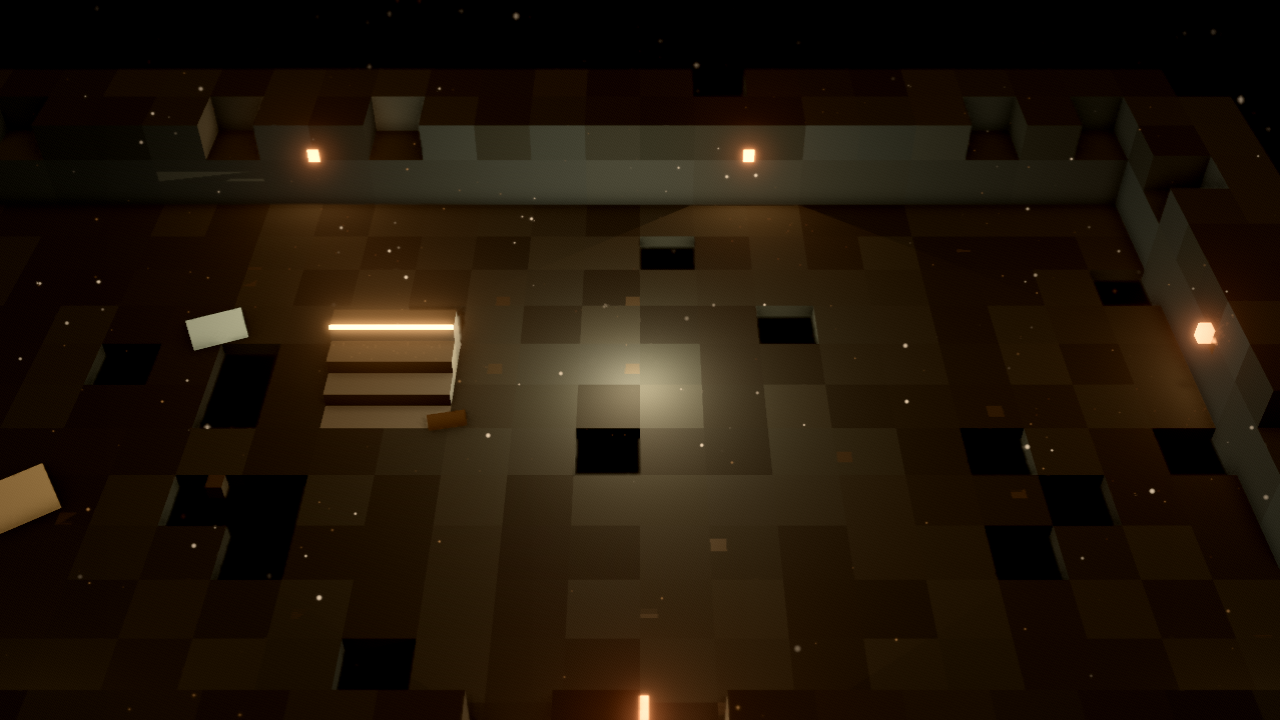
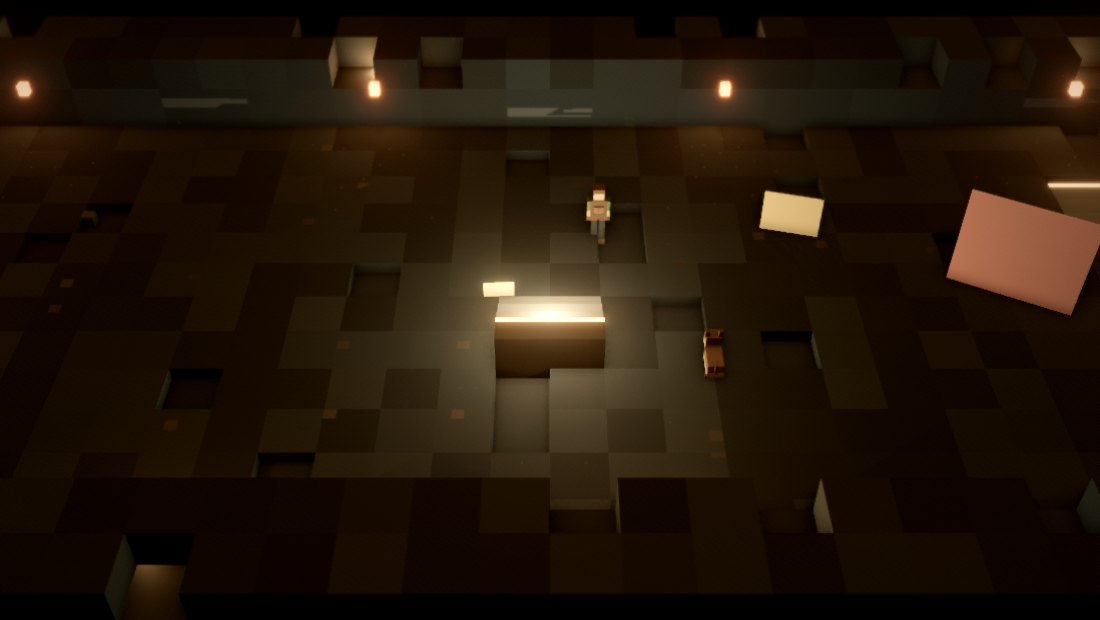
Put the third-person camera south of the hero — north was mirroring the world

diff --git a/tests/gpu-thirdperson.test.ts b/tests/gpu-thirdperson.test.ts
@@ -35,13 +35,13 @@ describe('gpu third-person — afterburn long-lens diorama follow', () => {
     const pose = thirdPersonPose(hero, 0, THIRD_DIST_DEFAULT_CELLS);
 
     // Pitch 42° with yawSteps 0 (behind the target, azimuth 0). Camera sits
-    // north of the target at (0, +sin·d, −cos·d), lifted `THIRD_LOOK_HEIGHT`
+    // *south* of the target at (0, +sin·d, +cos·d), lifted `THIRD_LOOK_HEIGHT`
     // above the floor so it looks at the hero's chest (0.39 cells up).
     const target = { x: hero.x + 0.5, y: THIRD_LOOK_HEIGHT_CELLS, z: hero.y + 0.5 };
     const cosP = Math.cos(THIRD_PITCH_RAD);
     const sinP = Math.sin(THIRD_PITCH_RAD);
     const expectedY = target.y + THIRD_DIST_DEFAULT_CELLS * sinP;
-    const expectedZ = target.z - THIRD_DIST_DEFAULT_CELLS * cosP;
+    const expectedZ = target.z + THIRD_DIST_DEFAULT_CELLS * cosP;
     expect(pose.position.x).toBeCloseTo(target.x);
     expect(pose.position.y).toBeCloseTo(expectedY);
     expect(pose.position.z).toBeCloseTo(expectedZ);
@@ -76,14 +76,15 @@ describe('gpu third-person — afterburn long-lens diorama follow', () => {
     // `wrapYawSteps`; `thirdPersonPose` then multiplies by π/4.
     const hero = { x: 5, y: 5 };
     const dist = THIRD_DIST_DEFAULT_CELLS;
-    // Two 45° steps put the camera east of north (azimuth 90°).
+    // Two 45° steps swing the camera a quarter turn from due south.
     const p0 = thirdPersonPose(hero, 0, dist);
     const p2 = thirdPersonPose(hero, 2, dist);
-    // Azimuth 0: camera at (target.x, +y, target.z − d·cosP). Azimuth 90°:
-    // camera at (target.x + d·cosP, +y, target.z). Same magnitude, rotated.
+    // Azimuth 0 puts the camera due **south** of the target — screen-up is
+    // map north, so movement keys are not mirrored (see `thirdPersonPose`).
+    // Azimuth 90° swings it a quarter turn to the west side. Same magnitude.
     const cosP = Math.cos(THIRD_PITCH_RAD);
-    expect(p0.position.z - p0.target.z).toBeCloseTo(-dist * cosP);
-    expect(p2.position.x - p2.target.x).toBeCloseTo(dist * cosP);
+    expect(p0.position.z - p0.target.z).toBeCloseTo(dist * cosP);
+    expect(p2.position.x - p2.target.x).toBeCloseTo(-dist * cosP);
     // Wrap: 8 steps is a full turn (8 · 45° = 360°) — the pose returns to
     // where it started. If wrapping is broken, `yawSteps = 8` would not land
     // back on the origin.

diff --git a/web/src/gpu/thirdperson.ts b/web/src/gpu/thirdperson.ts
@@ -103,12 +103,15 @@ export function thirdPersonPose(
   const sinP = Math.sin(pitch);
   const cosY = Math.cos(yaw);
   const sinY = Math.sin(yaw);
-  // Azimuth 0 puts the camera *north* of the target (behind, in
-  // `Pose.yaw = 0` terms); `Q`/`E` walk yawSteps and the camera swings.
+  // Azimuth 0 puts the camera **south** of the target, looking north — the
+  // same convention afterburn's rig uses ("0 = camera south of the subject
+  // looking north"). South is +z here (docs/gpu.md §4), so screen-up reads as
+  // map north and screen-right as map east; placing it north instead mirrors
+  // the world and makes every movement key look reversed.
   const position = {
-    x: target.x + dist * cosP * sinY,
+    x: target.x - dist * cosP * sinY,
     y: target.y + dist * sinP,
-    z: target.z - dist * cosP * cosY,
+    z: target.z + dist * cosP * cosY,
   };
   return { position, target, fov, focus: dist };
 }

diff --git a/docs/gpu-thirdperson.md b/docs/gpu-thirdperson.md
@@ -146,6 +146,20 @@ starts fresh, again matching afterburn's rig.
   alone so the sharp slab is only a few cells wide — ART_BIBLE §6
   "gentle, diorama, not mush".
 
+## Camera azimuth — which side the camera sits on
+
+Azimuth 0 puts the camera **due south of the hero, looking north**, matching
+afterburn's rig ("0 = camera south of the subject looking north"). South is
+`+z` here (`docs/gpu.md` §4), so the placement is
+`z = target.z + dist·cos(pitch)`.
+
+This is not cosmetic. Put the camera *north* instead and the world is
+mirrored on screen: map-east renders to the left, map-north renders down, and
+every movement key appears reversed even though the key handling is correct.
+That shipped briefly and the user caught it immediately — the original code
+reasoned that `Pose.yaw = 0` means facing north so "behind" must be north,
+but behind a north-facing hero is *south*.
+
 ## Fog
 
 *Rewritten by T-0054. T-0052's "34 % survival is atmospheric" call was made
